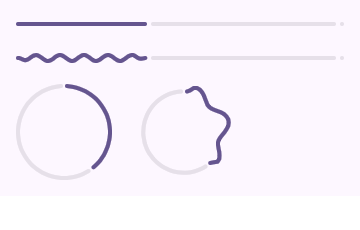
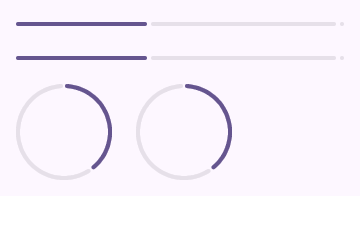
fix(progress): [T6.2-followup] flow determinate waves, smooth arcs, and gap the indeterminate track
- Advance determinate LinearWavyProgress and CircularWavyProgress phases while 0 < value < 1 and request frames; flatten and stop frames at 0, 1, disabled and ReduceMotion.
- Draw the indeterminate circular track only in the arc between the moving active arc and its gap, never underneath it, widening the gap by the wave amplitude.
- Build circular arcs from cubic tangents instead of 4-degree line samples, and give the indeterminate linear band a breathing width and faster wave phase.
- Add flow/terminal-state frame regressions and an active-arc/track-gap pixel check; refresh the progress golden baseline for the intentional flattening under ReduceMotion.
- Gates: CGO_ENABLED=0 go build ./..., go vet ./..., go tool mygo vet ./..., CGO_ENABLED=0 go test -count=1 ./... all PASS.

Changed region(s): [[0.4889, 0.3652, 0.6417, 0.7304], [0.0611, 0.213, 0.3972, 0.2739]]

diff --git a/progress.go b/progress.go
@@ -39,6 +39,8 @@ const (
 
 	// progressCycle is the indeterminate sweep's period.
 	progressCycle = 1800 * time.Millisecond
+	// progressWavePeriod is one full phase of a determinate wavy indicator.
+	progressWavePeriod = 1500 * time.Millisecond
 	// progressWaveLength is one sine wave of a wavy indicator, in DIP.
 	progressWaveLength = 24
 )
@@ -222,7 +224,7 @@ func progressIndicator(c *ui.Context, kind progressIndicatorKind, value float64,
 					gap:           gap,
 					value:         clampF32(shown, 0, 1),
 					indeterminate: indeterminate,
-					wavy:          wavy,
+					wavy:          wavy && !disabled,
 					reduce:        reduce,
 					elapsed:       elapsed,
 					rtl:           rtl,
@@ -235,7 +237,7 @@ func progressIndicator(c *ui.Context, kind progressIndicatorKind, value float64,
 					gap:           gap,
 					value:         clampF32(shown, 0, 1),
 					indeterminate: indeterminate,
-					wavy:          wavy,
+					wavy:          wavy && !disabled,
 					reduce:        reduce,
 					elapsed:       elapsed,
 					active:        active,
@@ -243,7 +245,11 @@ func progressIndicator(c *ui.Context, kind progressIndicatorKind, value float64,
 				})
 			}
 		})
-		if indeterminate && !reduce && !disabled {
+		// A determinate wavy indicator keeps flowing between its ends; at 0, 1,
+		// disabled or under reduced motion it rests flat and asks for no
+		// frames, as a plain determinate indicator does.
+		flowing := indeterminate || (wavy && shown > 0 && shown < 1)
+		if flowing && !reduce && !disabled {
 			p.AnimationFrame()
 		}
 	})
@@ -303,7 +309,7 @@ func paintLinearProgress(p *ui.Painter, r ui.Rect, paths *progressPaths, s linea
 	p.Fill(ui.Rect{X: da, Y: cy - dotD/2, W: db - da, H: dotD}, s.track, dotD/2)
 
 	amplitude := min(s.thickness*0.75, max((r.H-s.thickness)/2, 0))
-	if !s.wavy {
+	if !s.wavy || s.reduce {
 		amplitude = 0
 	}
 	if s.indeterminate {
@@ -321,21 +327,32 @@ func paintLinearProgress(p *ui.Painter, r ui.Rect, paths *progressPaths, s linea
 		return
 	}
 	capPad := min(s.thickness/2, activeUsed/2)
-	path := progressWavePath(&paths.active, capPad, activeUsed-capPad, cy, amplitude, 0, s.rtl, r)
+	path := progressWavePath(&paths.active, capPad, activeUsed-capPad, cy, amplitude, progressWavePhase(s.elapsed), s.rtl, r)
 	path.Cap(ui.RoundCap)
 	p.StrokePath(path, s.thickness, s.active)
+}
+
+// progressWavePhase returns the phase of a determinate wave at elapsed, a full
+// turn every progressWavePeriod so that it never jumps as the clock loops.
+func progressWavePhase(elapsed time.Duration) float32 {
+	turns := float64(max(elapsed, 0)) / float64(progressWavePeriod)
+	return float32(2 * math.Pi * math.Mod(turns, 1))
 }
 
 // paintIndeterminateLinearWave paints the drifting band of an indeterminate
 // linear indicator.
 func paintIndeterminateLinearWave(p *ui.Painter, r ui.Rect, paths *progressPaths, s linearProgressPaint, cy float32, width, amplitude float32) {
-	const band = 0.35
+	band := 0.35
 	var lo, hi, u float64
 	if s.reduce {
 		lo, hi = (1-band)/2, (1+band)/2
 	} else {
 		cycle := float64(progressCycle)
 		u = math.Mod(math.Max(float64(s.elapsed), 0), cycle) / cycle
+		// The band breathes a little as it runs and its wave phase moves three
+		// turns per cycle, so the sweep reads as flowing rather than slid at a
+		// constant rate; both close their loop without a jump.
+		band += 0.03 * math.Sin(2*math.Pi*u)
 		from := u*(1+band) - band
 		to := from + band
 		lo, hi = max(from, 0), min(to, 1)
@@ -351,7 +368,7 @@ func paintIndeterminateLinearWave(p *ui.Painter, r ui.Rect, paths *progressPaths
 		return
 	}
 	capPad := min(s.thickness/2, length/2)
-	phase := float32(u * 4 * math.Pi)
+	phase := float32(u * 6 * math.Pi)
 	path := progressWavePath(&paths.active, start+capPad, end-capPad, cy, amplitude, phase, s.rtl, r)
 	path.Cap(ui.RoundCap)
 	p.StrokePath(path, s.thickness, s.active)
@@ -430,23 +447,18 @@ func paintCircularProgress(p *ui.Painter, r ui.Rect, paths *progressPaths, s cir
 	cx, cy := r.X+r.W/2, r.Y+r.H/2
 	radius := min(r.W, r.H)/2 - s.thickness/2
 	amplitude := float32(0)
-	if s.wavy {
+	if s.wavy && !s.reduce {
 		amplitude = min(min(r.W, r.H)*0.055, max(radius*0.4, 0))
 		radius -= amplitude
 	}
 	if radius <= s.thickness*0.5 || radius <= 0 {
 		return
 	}
-	// The gap is the angle a track gap plus the round cap's radius spans.
-	gapDeg := (s.gap + s.thickness/2) / radius * (180 / math.Pi)
+	// The gap is the angle a track gap plus the round cap's radius spans; the
+	// wave's outward bulge widens it so the track never touches the crest.
+	gapDeg := (s.gap + s.thickness/2 + amplitude) / radius * (180 / math.Pi)
 
 	if s.indeterminate {
-		trackSweep := float32(360) - 2*gapDeg
-		if trackSweep > 0 {
-			progressArcPath(&paths.track, cx, cy, radius, gapDeg, trackSweep, 0, 0)
-			paths.track.Cap(ui.RoundCap)
-			p.StrokePath(&paths.track, s.thickness, s.track)
-		}
 		var rotation, sweep, phase float32
 		if s.reduce {
 			sweep = 90
@@ -460,6 +472,14 @@ func paintCircularProgress(p *ui.Painter, r ui.Rect, paths *progressPaths, s cir
 				phase = float32(u * 4 * math.Pi)
 			}
 		}
+		// The unfinished track leaves a clear gap around the moving arc rather
+		// than running underneath it.
+		trackSweep := 360 - sweep - 2*gapDeg
+		if trackSweep > 0.5 {
+			progressArcPath(&paths.track, cx, cy, radius, rotation+sweep+gapDeg, trackSweep, 0, 0)
+			paths.track.Cap(ui.RoundCap)
+			p.StrokePath(&paths.track, s.thickness, s.track)
+		}
 		progressArcPath(&paths.active, cx, cy, radius, rotation, sweep, amplitude, phase)
 		paths.active.Cap(ui.RoundCap)
 		p.StrokePath(&paths.active, s.thickness, s.active)
@@ -469,6 +489,7 @@ func paintCircularProgress(p *ui.Painter, r ui.Rect, paths *progressPaths, s cir
 	// Determinate: the active arc first, then the rest of the ring, both with
 	// a clear gap at the join.
 	activeSweep := s.value * 360
+	phase := progressWavePhase(s.elapsed)
 	if activeSweep <= 0.01 {
 		progressArcPath(&paths.track, cx, cy, radius, 0, 360, 0, 0)
 		paths.track.Cap(ui.RoundCap)
@@ -477,7 +498,7 @@ func paintCircularProgress(p *ui.Painter, r ui.Rect, paths *progressPaths, s cir
 	}
 	if activeSweep >= 359.5 {
 		activeAmp := amplitude * progressEdgeScale(s.value)
-		progressArcPath(&paths.active, cx, cy, radius, 0, 360, activeAmp, 0)
+		progressArcPath(&paths.active, cx, cy, radius, 0, 360, activeAmp, phase)
 		paths.active.Cap(ui.RoundCap)
 		p.StrokePath(&paths.active, s.thickness, s.active)
 		return
@@ -486,7 +507,7 @@ func paintCircularProgress(p *ui.Painter, r ui.Rect, paths *progressPaths, s cir
 	a1 := activeSweep - gapDeg/2
 	if a1 > a0 {
 		activeAmp := amplitude * progressEdgeScale(s.value)
-		progressArcPath(&paths.active, cx, cy, radius, a0, a1-a0, activeAmp, 0)
+		progressArcPath(&paths.active, cx, cy, radius, a0, a1-a0, activeAmp, phase)
 		paths.active.Cap(ui.RoundCap)
 		p.StrokePath(&paths.active, s.thickness, s.active)
 		rest := 360 - activeSweep - gapDeg
@@ -513,35 +534,51 @@ func paintCircularProgress(p *ui.Painter, r ui.Rect, paths *progressPaths, s cir
 	}
 }
 
-// progressArcPath samples an arc from startDeg, clockwise from 12 o'clock, into
-// path. A positive amplitude waves the radius as R + A·sin(6θ + phase), with
-// the wave anchored at the arc's ends.
+// progressArcPath builds a smooth arc from startDeg, clockwise from 12 o'clock,
+// into path. A positive amplitude waves the radius as R + A·sin(6θ + phase),
+// with the wave anchored at the arc's ends; cubic segments follow the wave's
+// tangents so a small ring has no visible facets.
 func progressArcPath(path *ui.Path, cx, cy, radius, startDeg, sweepDeg, amplitude, phase float32) *ui.Path {
 	path.Reset()
 	if sweepDeg <= 0 {
 		return path
 	}
-	steps := max(8, int(sweepDeg/4))
-	for i := 0; i <= steps; i++ {
-		f := float32(i) / float32(steps)
-		deg := startDeg + sweepDeg*f
-		rad := radius
+	steps := max(12, int(sweepDeg/6))
+	sweepRad := float64(sweepDeg) * math.Pi / 180
+	eval := func(f float64) (x, y, dx, dy float32) {
+		theta := float64(startDeg)*math.Pi/180 + sweepRad*f
+		rad := float64(radius)
+		drdf := 0.0
 		if amplitude > 0 {
-			env := min(1, min(f, 1-f)/0.08)
-			env = env * env * (3 - 2*env)
-			// Six waves around the full ring; θ spans the whole circle in the
-			// formula so the wave keeps its shape as the arc grows.
-			theta := float64(deg) * math.Pi / 180
-			rad += amplitude * env * float32(math.Sin(6*theta+float64(phase)))
+			env, dEnv := 1.0, 0.0
+			switch {
+			case f < 0.08:
+				u := f / 0.08
+				env, dEnv = u*u*(3-2*u), 6*u*(1-u)/0.08
+			case f > 0.92:
+				u := (1 - f) / 0.08
+				env, dEnv = u*u*(3-2*u), -6*u*(1-u)/0.08
+			}
+			ang := 6*theta + float64(phase)
+			sn, cs := math.Sincos(ang)
+			rad += float64(amplitude) * env * sn
+			drdf = float64(amplitude) * (dEnv*sn + env*cs*6*sweepRad)
 		}
-		angle := float64(deg) * math.Pi / 180
-		x := cx + rad*float32(math.Sin(angle))
-		y := cy - rad*float32(math.Cos(angle))
-		if i == 0 {
-			path.MoveTo(x, y)
-		} else {
-			path.LineTo(x, y)
-		}
+		sn, cs := math.Sincos(theta)
+		x = cx + float32(rad*sn)
+		y = cy - float32(rad*cs)
+		dx = float32(drdf*sn + rad*cs*sweepRad)
+		dy = float32(-drdf*cs + rad*sn*sweepRad)
+		return x, y, dx, dy
+	}
+	x0, y0, dx0, dy0 := eval(0)
+	path.MoveTo(x0, y0)
+	df := 1 / float64(steps)
+	step3 := float32(df / 3)
+	for i := 1; i <= steps; i++ {
+		x1, y1, dx1, dy1 := eval(float64(i) * df)
+		path.CubeTo(x0+dx0*step3, y0+dy0*step3, x1-dx1*step3, y1-dy1*step3, x1, y1)
+		x0, y0, dx0, dy0 = x1, y1, dx1, dy1
 	}
 	return path
 }

diff --git a/progress_test.go b/progress_test.go
@@ -311,6 +311,115 @@ func TestCircularWavyProgress(t *testing.T) {
 	}
 }
 
+// TestProgressDeterminateWavyFlows checks that a determinate wavy indicator
+// keeps moving between its ends instead of freezing at phase 0.
+func TestProgressDeterminateWavyFlows(t *testing.T) {
+	th := ThemeFromSeed(DefaultSeedColor)
+	tt := progressCanvas(th, func(c *ui.Context) {
+		LinearWavyProgress(c, 0.4, ProgressOptions{Label: "FlowBar"})
+		CircularWavyProgress(c, 0.4, ProgressOptions{Label: "FlowRing", Size: 64})
+	})
+	if !tt.FramePending() {
+		t.Fatal("a determinate wavy indicator asks for no frames")
+	}
+	bar := progressInfo(t, tt, "FlowBar")
+	ring := progressInfo(t, tt, "FlowRing")
+	before := tt.Image()
+	tt.Advance(120 * time.Millisecond)
+	after := tt.Image()
+	if n := indicatorBoxDiff(before, after, bar.Bounds); n < 5 {
+		t.Fatalf("the determinate bar's wave moved only %d pixels", n)
+	}
+	if n := indicatorBoxDiff(before, after, ring.Bounds); n < 5 {
+		t.Fatalf("the determinate ring's wave moved only %d pixels", n)
+	}
+	if !tt.FramePending() {
+		t.Fatal("the flowing determinate indicator stopped asking for frames")
+	}
+}
+
+// TestProgressWavyTerminalStatesRest checks that 0, 1, disabled and reduced
+// motion wavy indicators flatten and ask for no frames.
+func TestProgressWavyTerminalStatesRest(t *testing.T) {
+	th := ThemeFromSeed(DefaultSeedColor)
+	rest := progressCanvas(th, func(c *ui.Context) {
+		LinearWavyProgress(c, 0, ProgressOptions{Label: "ZeroBar"})
+		CircularWavyProgress(c, 1, ProgressOptions{Label: "FullRing", Size: 64})
+		LinearWavyProgress(c, 0.5, ProgressOptions{Label: "OffBar", Disabled: true})
+		CircularWavyProgress(c, 0.5, ProgressOptions{Label: "OffRing", Size: 64, Disabled: true})
+	})
+	if rest.FramePending() {
+		t.Fatal("terminal determinate wavy indicators ask for frames")
+	}
+	before := rest.Image()
+	rest.Advance(500 * time.Millisecond)
+	if rest.FramePending() {
+		t.Fatal("terminal determinate wavy indicators keep asking for frames")
+	}
+	if n := indicatorBoxDiff(before, rest.Image(), ui.Rect{W: 420, H: 300}); n != 0 {
+		t.Fatalf("terminal determinate wavy indicators repainted %d pixels", n)
+	}
+
+	stillTh := ThemeFromSeed(DefaultSeedColor, ThemeOptions{ReduceMotion: true})
+	still := progressCanvas(stillTh, func(c *ui.Context) {
+		LinearWavyProgress(c, 0.5, ProgressOptions{Label: "StillBar"})
+		CircularWavyProgress(c, 0.5, ProgressOptions{Label: "StillRing", Size: 64})
+	})
+	if still.FramePending() {
+		t.Fatal("reduced-motion determinate wavy indicators ask for frames")
+	}
+	stillBefore := still.Image()
+	still.Advance(300 * time.Millisecond)
+	if still.FramePending() {
+		t.Fatal("reduced-motion determinate wavy indicators keep asking for frames")
+	}
+	if n := indicatorBoxDiff(stillBefore, still.Image(), ui.Rect{W: 420, H: 300}); n != 0 {
+		t.Fatalf("reduced-motion determinate wavy indicators changed %d pixels", n)
+	}
+}
+
+// TestCircularIndeterminateTrackLeavesGapAroundArc checks that the unfinished
+// ring stops clear of the moving active arc instead of running underneath it.
+func TestCircularIndeterminateTrackLeavesGapAroundArc(t *testing.T) {
+	th := ThemeFromSeed(DefaultSeedColor)
+	cs := th.Colors
+	track := cs.SurfaceContainerHighest
+	if track.A == 0 {
+		track = cs.SurfaceVariant
+	}
+	tt := progressCanvas(th, func(c *ui.Context) {
+		CircularWavyProgress(c, -1, ProgressOptions{Label: "GapRing", Size: 64})
+	})
+	tt.Advance(500 * time.Millisecond)
+	info := progressInfo(t, tt, "GapRing")
+	cx, cy := center(info.Bounds)
+	img := tt.Image()
+	for deg := 0; deg < 360; deg += 2 {
+		rad := float64(deg) * math.Pi / 180
+		anyActive, trackRun, trackDepth := false, 0, 0
+		for r := 20.0; r <= 32.0; r += 0.5 {
+			x := int(cx + float32(r*math.Sin(rad)))
+			y := int(cy - float32(r*math.Cos(rad)))
+			px := img.RGBAAt(x, y)
+			if colorMatches(px, cs.Primary, 40) {
+				anyActive = true
+			}
+			// A solid track stroke spans its whole 4 DIP thickness; the
+			// antialiased rim of the active stroke can flash the track color
+			// for a pixel or two and must not count.
+			if colorMatches(px, track, 6) {
+				trackRun++
+				trackDepth = max(trackDepth, trackRun)
+			} else {
+				trackRun = 0
+			}
+		}
+		if anyActive && trackDepth >= 4 {
+			t.Fatalf("the track runs under the active arc at %d°", deg)
+		}
+	}
+}
+
 // TestProgressAccessAndBounds checks the range exposed to assistive technology,
 // NaN normalization, disabled state, and a determinate value settling.
 func TestProgressAccessAndBounds(t *testing.T) {
